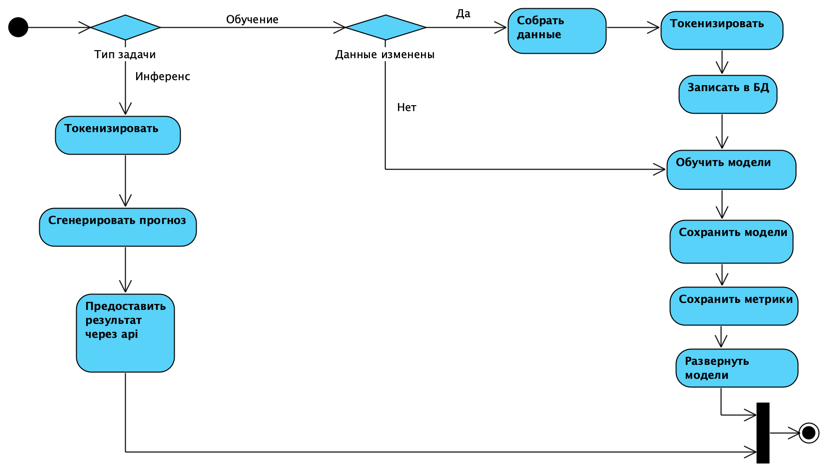
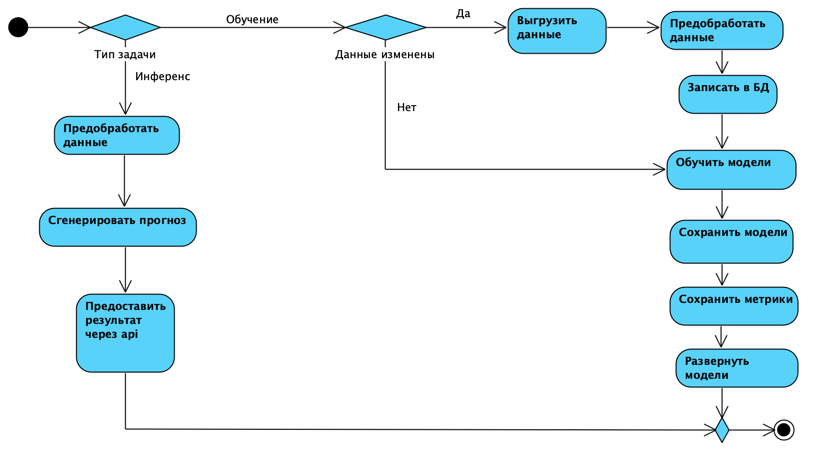
added components diagram; updated workflow diagram

diff --git a/README.md b/README.md
@@ -39,3 +39,6 @@
 
 ![workflow.png](readme/imgs/diagrams/workflow.png)
 Диаграмма компонентов процесса работы системы (Рис. 2)
+
+![components.png](readme/imgs/diagrams/components.png)
+Диаграмма компонентов системы (Рис. 3)
